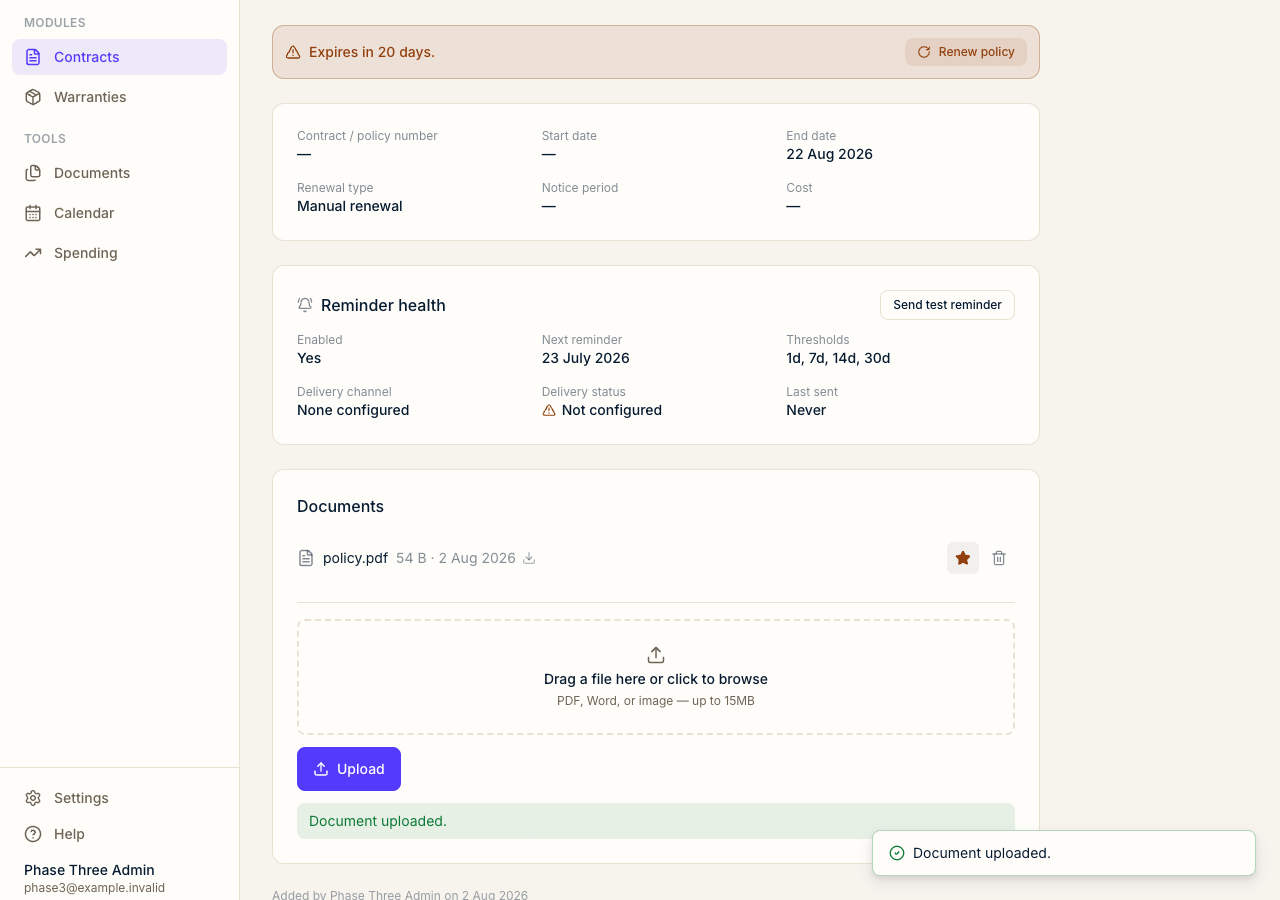
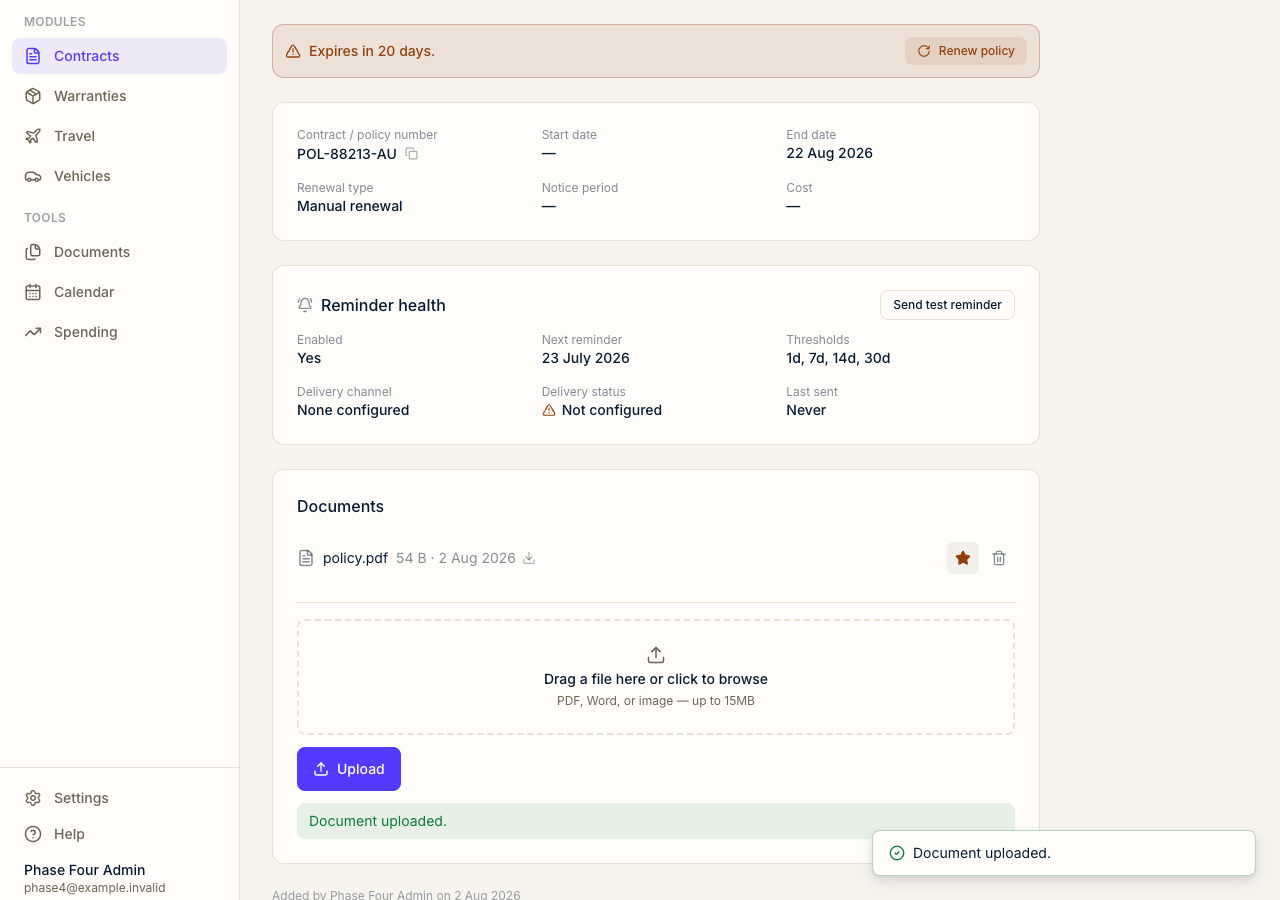
Add shared DetailField component and module visibility copy (Phase 4)
Replaces the identical Detail/FlightDetail functions duplicated across six
record detail pages with one shared DetailField component, adding a
copy-to-clipboard action for identifiers people need to quote verbatim
(policy numbers, VIN, license plate, flight/confirmation codes). Module
setup and Settings > Modules now also state that records are visible to
the whole household, not just the person who added them (#209, #210, #211).

diff --git a/src/app/(app)/travel/[id]/page.tsx b/src/app/(app)/travel/[id]/page.tsx
@@ -6,6 +6,7 @@ import { prisma } from "@/lib/prisma";
 import { requireModuleEnabled } from "@/lib/modules/enablement";
 import { deleteTrip, deleteTripSegment, addSegmentDocument, refreshFlightStatusAction } from "@/lib/actions/trips";
 import { ConfirmForm } from "@/components/ConfirmForm";
+import { DetailField as Detail } from "@/components/DetailField";
 import { DetailOverflowMenu } from "@/components/DetailOverflowMenu";
 import { DocumentUploadForm } from "@/components/DocumentUploadForm";
 import { TripSegmentDocumentList } from "@/components/TripSegmentDocumentList";
@@ -179,7 +180,7 @@ export default async function TripDetailPage({
                   </div>
 
                   <dl className="mt-4 grid grid-cols-2 gap-4 md:grid-cols-3">
-                    <Detail label="Confirmation code" value={segment.confirmationCode ?? "—"} />
+                    <Detail label="Confirmation code" value={segment.confirmationCode ?? "—"} copyable />
                     <Detail label="Start" value={formatDate(segment.startDate, dateFormat)} />
                     <Detail label="End" value={formatDate(segment.endDate, dateFormat)} />
                     <Detail label="Location" value={segment.location ?? "—"} />
@@ -190,7 +191,7 @@ export default async function TripDetailPage({
                       }
                     />
                     {segment.type === "FLIGHT" && segment.flightNumber && (
-                      <Detail label="Flight" value={segment.flightNumber} />
+                      <Detail label="Flight" value={segment.flightNumber} copyable />
                     )}
                     {segment.type === "FLIGHT" &&
                       segment.departureIata &&
@@ -304,23 +305,7 @@ export default async function TripDetailPage({
   );
 }
 
-function Detail({ label, value }: { label: string; value: string }) {
-  return (
-    <div className="min-w-0">
-      <dt className="text-xs text-foreground/50">{label}</dt>
-      <dd className="text-sm font-medium break-words">{value}</dd>
-    </div>
-  );
-}
-
-function FlightDetail({ label, value }: { label: string; value: string }) {
-  return (
-    <div className="min-w-0">
-      <dt className="text-xs text-foreground/50">{label}</dt>
-      <dd className="text-sm font-medium break-words">{value}</dd>
-    </div>
-  );
-}
+const FlightDetail = Detail;
 
 function formatDateTime(date: Date | null | undefined): string {
   if (!date) return "—";

diff --git a/src/app/(app)/vehicles/[id]/page.tsx b/src/app/(app)/vehicles/[id]/page.tsx
@@ -6,6 +6,7 @@ import { prisma } from "@/lib/prisma";
 import { requireModuleEnabled } from "@/lib/modules/enablement";
 import { deleteVehicle, deleteVehicleItem, addVehicleItemDocument } from "@/lib/actions/vehicles";
 import { ConfirmForm } from "@/components/ConfirmForm";
+import { DetailField as Detail } from "@/components/DetailField";
 import { DetailOverflowMenu } from "@/components/DetailOverflowMenu";
 import { DocumentUploadForm } from "@/components/DocumentUploadForm";
 import { VehicleItemDocumentList } from "@/components/VehicleItemDocumentList";
@@ -113,7 +114,7 @@ export default async function VehicleDetailPage({
           {vehicle.model && <Detail label="Model" value={vehicle.model} />}
           {vehicle.year && <Detail label="Year" value={String(vehicle.year)} />}
           {vehicle.licensePlate && (
-            <Detail label="License plate" value={vehicle.licensePlate} />
+            <Detail label="License plate" value={vehicle.licensePlate} copyable />
           )}
           {vehicle.regoExpiry && (
             <Detail label="Rego expiry" value={formatDate(vehicle.regoExpiry, dateFormat)} />
@@ -124,7 +125,7 @@ export default async function VehicleDetailPage({
               value={formatDate(vehicle.insuranceExpiry, dateFormat)}
             />
           )}
-          {vehicle.vin && <Detail label="VIN" value={vehicle.vin} />}
+          {vehicle.vin && <Detail label="VIN" value={vehicle.vin} copyable />}
           {vehicle.colour && <Detail label="Colour" value={vehicle.colour} />}
         </dl>
         {vehicle.notes && (
@@ -241,15 +242,6 @@ export default async function VehicleDetailPage({
         updatedAt={vehicle.updatedAt}
         dateFormat={dateFormat}
       />
-    </div>
-  );
-}
-
-function Detail({ label, value }: { label: string; value: string }) {
-  return (
-    <div className="min-w-0">
-      <dt className="text-xs text-foreground/50">{label}</dt>
-      <dd className="text-sm font-medium break-words">{value}</dd>
     </div>
   );
 }

diff --git a/src/app/(app)/products/[id]/page.tsx b/src/app/(app)/products/[id]/page.tsx
@@ -11,6 +11,7 @@ import { ExpiryBadge } from "@/components/ExpiryBadge";
 import { ConfirmForm } from "@/components/ConfirmForm";
 import { DetailOverflowMenu } from "@/components/DetailOverflowMenu";
 import { DetailStatusBanner } from "@/components/DetailStatusBanner";
+import { DetailField as Detail } from "@/components/DetailField";
 import { ProductDocumentUploadForm } from "@/components/ProductDocumentUploadForm";
 import { ProductDocumentList } from "@/components/ProductDocumentList";
 import { RecordMeta } from "@/components/RecordMeta";
@@ -118,8 +119,8 @@ export default async function ProductDetailPage({
           <Detail label="Brand" value={product.manufacturer ?? "—"} />
           <Detail label="Model" value={product.model ?? "—"} />
           <Detail label="Vendor / retailer" value={product.vendor ?? "—"} />
-          <Detail label="Serial number" value={product.serialNumber ?? "—"} />
-          <Detail label="Barcode" value={product.barcode ?? "—"} />
+          <Detail label="Serial number" value={product.serialNumber ?? "—"} copyable />
+          <Detail label="Barcode" value={product.barcode ?? "—"} copyable />
           <Detail label="Purchase date" value={formatDate(product.purchaseDate, dateFormat)} />
           <Detail label="Warranty end date" value={formatDate(product.warrantyEndDate, dateFormat)} />
           <Detail
@@ -155,15 +156,6 @@ export default async function ProductDetailPage({
         dateFormat={dateFormat}
         extractionConfirmedAt={product.extractionConfirmedAt}
       />
-    </div>
-  );
-}
-
-function Detail({ label, value }: { label: string; value: string }) {
-  return (
-    <div className="min-w-0">
-      <dt className="text-xs text-foreground/50">{label}</dt>
-      <dd className="text-sm font-medium break-words">{value}</dd>
     </div>
   );
 }

diff --git a/src/components/DetailField.tsx b/src/components/DetailField.tsx
@@ -1,0 +1,46 @@
+"use client";
+
+import { useState } from "react";
+import { Copy, Check } from "lucide-react";
+
+// #210 — shared detail field row, replacing the byte-identical `Detail`
+// function that was copy-pasted across every record detail page. Consistent
+// long-value wrapping everywhere, plus an optional copy-to-clipboard action
+// for identifiers people need to quote verbatim (policy numbers, VINs,
+// confirmation codes) rather than retype from a cramped mobile screen.
+export function DetailField({
+  label,
+  value,
+  copyable = false,
+}: {
+  label: string;
+  value: string;
+  copyable?: boolean;
+}) {
+  const [copied, setCopied] = useState(false);
+  const isEmpty = value === "—" || value.trim() === "";
+
+  return (
+    <div className="min-w-0">
+      <dt className="text-xs text-foreground/50">{label}</dt>
+      <dd className="flex items-center gap-1 text-sm font-medium">
+        <span className="min-w-0 break-words">{value}</span>
+        {copyable && !isEmpty && (
+          <button
+            type="button"
+            onClick={() => {
+              navigator.clipboard.writeText(value).then(() => {
+                setCopied(true);
+                setTimeout(() => setCopied(false), 1500);
+              });
+            }}
+            aria-label={copied ? `Copied ${label}` : `Copy ${label}`}
+            className="shrink-0 rounded p-1 text-foreground/40 hover:bg-black/5 hover:text-foreground dark:hover:bg-white/5"
+          >
+            {copied ? <Check size={13} /> : <Copy size={13} />}
+          </button>
+        )}
+      </dd>
+    </div>
+  );
+}

diff --git a/src/app/(app)/contracts/[id]/page.tsx b/src/app/(app)/contracts/[id]/page.tsx
@@ -12,6 +12,7 @@ import { ExpiryBadge } from "@/components/ExpiryBadge";
 import { ConfirmForm } from "@/components/ConfirmForm";
 import { DetailOverflowMenu } from "@/components/DetailOverflowMenu";
 import { DetailStatusBanner } from "@/components/DetailStatusBanner";
+import { DetailField as Detail } from "@/components/DetailField";
 import { DocumentUploadForm } from "@/components/DocumentUploadForm";
 import { DocumentList } from "@/components/DocumentList";
 import { RecordMeta } from "@/components/RecordMeta";
@@ -139,7 +140,7 @@ export default async function ContractDetailPage({
 
       <div className="rounded-xl border border-border bg-surface p-4 md:p-6">
         <dl className="grid grid-cols-2 gap-4 md:grid-cols-3">
-          <Detail label="Contract / policy number" value={contract.contractNumber ?? "—"} />
+          <Detail label="Contract / policy number" value={contract.contractNumber ?? "—"} copyable />
           <Detail label="Start date" value={formatDate(contract.startDate, dateFormat)} />
           <Detail label="End date" value={formatDate(contract.endDate, dateFormat)} />
           <Detail
@@ -241,15 +242,6 @@ export default async function ContractDetailPage({
         dateFormat={dateFormat}
         extractionConfirmedAt={contract.extractionConfirmedAt}
       />
-    </div>
-  );
-}
-
-function Detail({ label, value }: { label: string; value: string }) {
-  return (
-    <div className="min-w-0">
-      <dt className="text-xs text-foreground/50">{label}</dt>
-      <dd className="text-sm font-medium break-words">{value}</dd>
     </div>
   );
 }

diff --git a/src/app/(app)/home/[id]/page.tsx b/src/app/(app)/home/[id]/page.tsx
@@ -7,6 +7,7 @@ import { requireModuleEnabled } from "@/lib/modules/enablement";
 import { deleteProperty, deleteHomeItem, addItemDocument } from "@/lib/actions/home";
 import { createPropertyValuation, deletePropertyValuation } from "@/lib/actions/wealth";
 import { ConfirmForm } from "@/components/ConfirmForm";
+import { DetailField as Detail } from "@/components/DetailField";
 import { DetailOverflowMenu } from "@/components/DetailOverflowMenu";
 import { DocumentUploadForm } from "@/components/DocumentUploadForm";
 import { HomeItemDocumentList } from "@/components/HomeItemDocumentList";
@@ -315,15 +316,6 @@ export default async function PropertyDetailPage({
         updatedAt={property.updatedAt}
         dateFormat={dateFormat}
       />
-    </div>
-  );
-}
-
-function Detail({ label, value }: { label: string; value: string }) {
-  return (
-    <div className="min-w-0">
-      <dt className="text-xs text-foreground/50">{label}</dt>
-      <dd className="text-sm font-medium break-words">{value}</dd>
     </div>
   );
 }

diff --git a/src/app/(app)/home/[id]/rental/page.tsx b/src/app/(app)/home/[id]/rental/page.tsx
@@ -11,6 +11,7 @@ import {
   linkRentalAgreementContract,
 } from "@/lib/actions/home";
 import { ConfirmForm } from "@/components/ConfirmForm";
+import { DetailField as Detail } from "@/components/DetailField";
 import { DocumentUploadForm } from "@/components/DocumentUploadForm";
 import { RentalStatementDocumentList } from "@/components/RentalStatementDocumentList";
 import { SelectWrapper, selectClass } from "@/components/SelectWrapper";
@@ -408,15 +409,6 @@ export default async function RentalOverviewPage({
           )}
         </div>
       )}
-    </div>
-  );
-}
-
-function Detail({ label, value }: { label: string; value: string }) {
-  return (
-    <div className="min-w-0">
-      <dt className="text-xs text-foreground/50">{label}</dt>
-      <dd className="text-sm font-medium break-words">{value ?? "—"}</dd>
     </div>
   );
 }

diff --git a/src/components/SetupForm.tsx b/src/components/SetupForm.tsx
@@ -83,7 +83,8 @@ export function SetupForm({ setupTokenRequired = false }: { setupTokenRequired?:
       <fieldset className="space-y-2">
         <legend className="text-sm font-medium">What would you like to track?</legend>
         <p className="text-xs text-foreground/60">
-          Enable any extra modules now, or turn them on later from Settings.
+          Enable any extra modules now, or turn them on later from Settings. Records in every
+          module are visible to your whole household, not just the person who added them.
         </p>
         <label className="flex items-start gap-3 rounded-lg border border-border px-3 py-2 opacity-70">
           <input

diff --git a/src/app/(app)/settings/modules/page.tsx b/src/app/(app)/settings/modules/page.tsx
@@ -20,7 +20,8 @@ export default async function ModulesPage() {
       <h1 className="text-2xl font-semibold">Modules</h1>
       <p className="text-sm text-foreground/60">
         Enable or disable optional features. Disabling a module hides it from navigation but
-        keeps its data intact.
+        keeps its data intact. Records in every module are visible to your whole household, not
+        just the person who added them.
       </p>
 
       <section className="rounded-xl border border-border bg-surface p-4 md:p-6">
